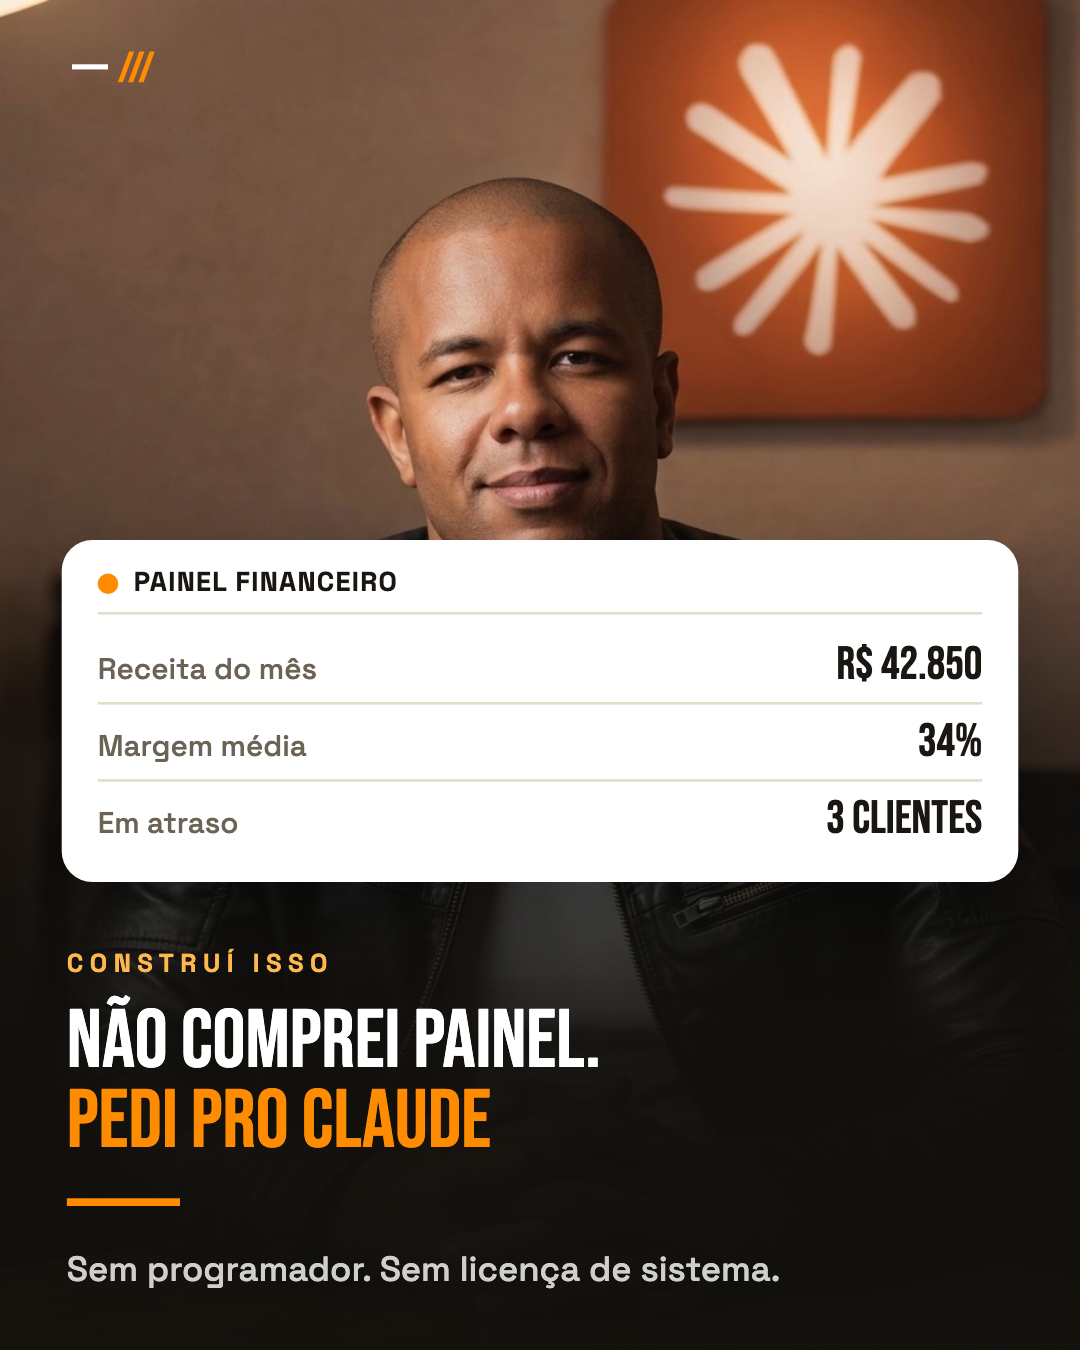
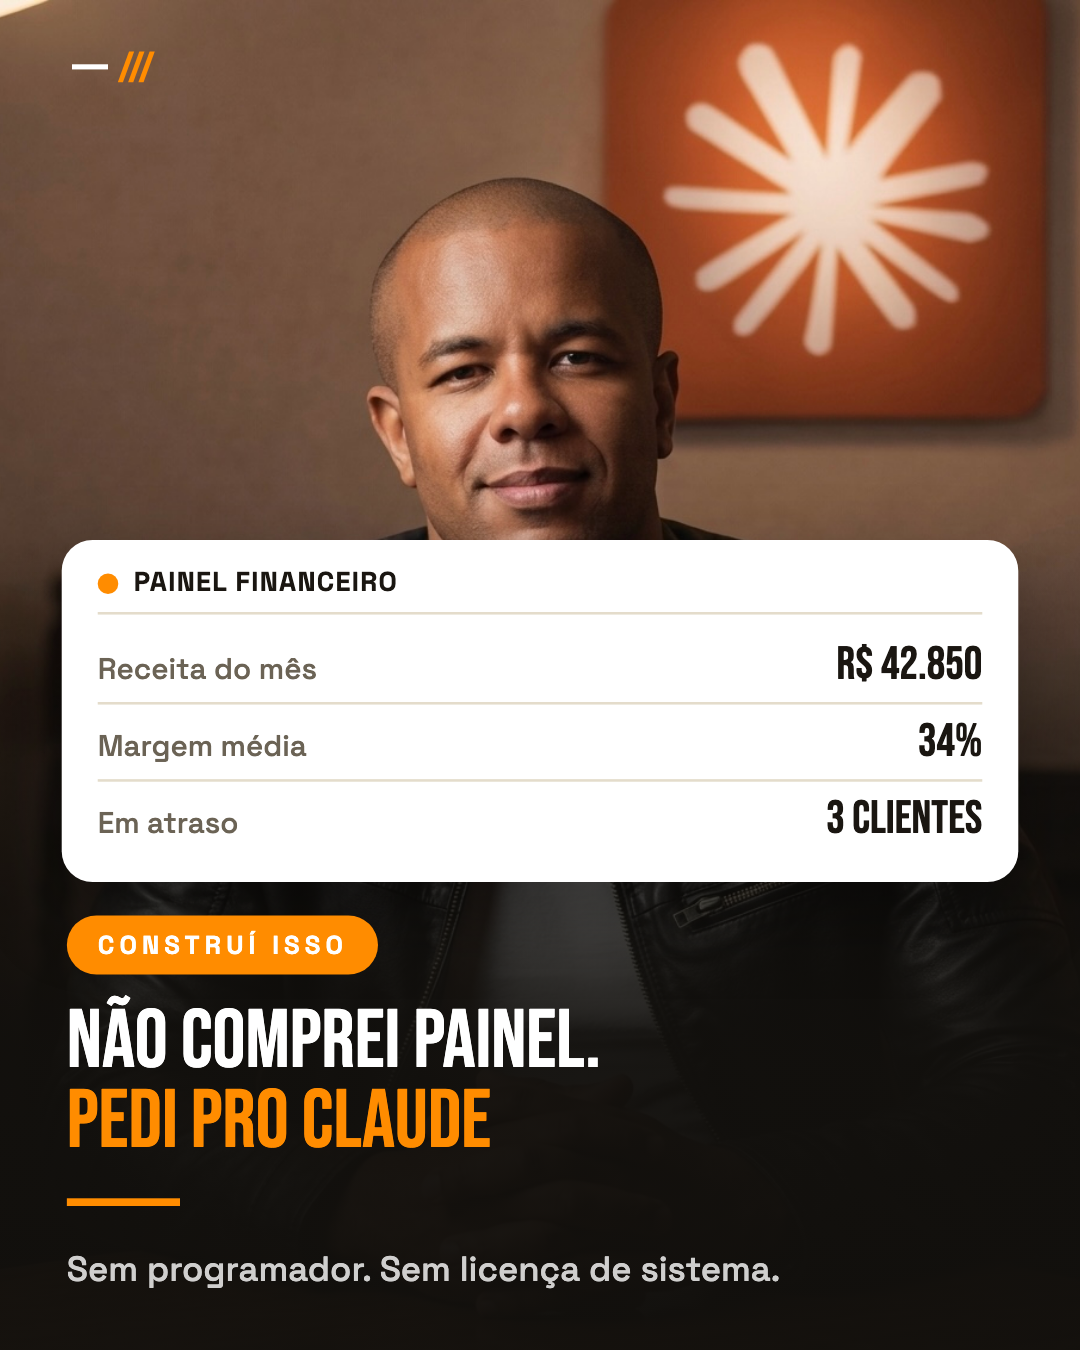
fix: tag do slide 1 vira pílula sólida (fidelidade à engenharia reversa)
A tag do slide 1 era só texto colorido (herdado do DNA antigo), enquanto
os posts virais analisados (@joelsonmadeira_) usam pílula sólida com fundo
preenchido — texto simples some contra fundos variados de foto. Nova
_tag_pill() aplicada só no slide 1 (capa); slides internos mantêm o
_tag() original.

Changed region(s): [[0.0611, 0.6533, 0.3667, 0.7467]]

diff --git a/preview/painel-financeiro-claude.html b/preview/painel-financeiro-claude.html
@@ -29,7 +29,7 @@
       <div style="display:flex;justify-content:space-between;align-items:baseline;padding:4px 0;border-bottom:1px solid #E4DCCB;"><span style="font-family:'Space Grotesk',sans-serif;font-size:11.5px;color:#6B6355;font-weight:500;">Receita do mês</span><span style="font-family:'Bebas Neue',Impact,sans-serif;font-size:18px;color:#1A1611;">R$ 42.850</span></div><div style="display:flex;justify-content:space-between;align-items:baseline;padding:4px 0;border-bottom:1px solid #E4DCCB;"><span style="font-family:'Space Grotesk',sans-serif;font-size:11.5px;color:#6B6355;font-weight:500;">Margem média</span><span style="font-family:'Bebas Neue',Impact,sans-serif;font-size:18px;color:#1A1611;">34%</span></div><div style="display:flex;justify-content:space-between;align-items:baseline;padding:4px 0;"><span style="font-family:'Space Grotesk',sans-serif;font-size:11.5px;color:#6B6355;font-weight:500;">Em atraso</span><span style="font-family:'Bebas Neue',Impact,sans-serif;font-size:18px;color:#1A1611;">3 clientes</span></div>
     </div></div>
       <div style="position:absolute;left:26px;right:26px;bottom:20px;z-index:5;">
-        <div style="font-family:'Space Grotesk',sans-serif;font-size:10px;font-weight:700;letter-spacing:2.5px;color:#FFB84D;text-transform:uppercase;margin-bottom:10px;">CONSTRUÍ ISSO</div>
+        <div style="display:inline-block;background:#FF8C00;color:#fff;font-family:'Space Grotesk',sans-serif;font-size:10px;font-weight:700;letter-spacing:2px;text-transform:uppercase;padding:5px 12px;border-radius:20px;margin-bottom:12px;">CONSTRUÍ ISSO</div>
         <div style="font-family:'Bebas Neue',Impact,sans-serif;font-size:32px;font-weight:400;line-height:0.96;"><div style="color:#fff;">NÃO COMPREI PAINEL.</div><div style="color:#FF8C00;">PEDI PRO CLAUDE</div></div>
         <div style="width:44px;height:3px;background:#FF8C00;margin:14px 0;"></div>
         <div style="font-family:'Space Grotesk',sans-serif;font-size:13.5px;line-height:1.6;color:rgba(255,255,255,0.8);font-weight:500;">Sem programador. Sem licença de sistema.</div>

diff --git a/scripts/build_carousel.py b/scripts/build_carousel.py
@@ -99,6 +99,16 @@ def _tag(t: str, light=False) -> str:
             f'letter-spacing:2.5px;color:{color};text-transform:uppercase;margin-bottom:10px;">{t}</div>')
 
 
+def _tag_pill(t: str) -> str:
+    """Tag em pílula sólida (fundo laranja preenchido, texto branco) — modelada no post
+    viral do @joelsonmadeira_ ('ANÁLISE DE GRINGO'). Usada sobre foto no slide 1, onde
+    texto colorido sozinho (sem fundo) some contra fundos variados da foto."""
+    return (f'<div style="display:inline-block;background:{BP};color:#fff;'
+            f'font-family:\'Space Grotesk\',sans-serif;font-size:10px;font-weight:700;'
+            f'letter-spacing:2px;text-transform:uppercase;padding:5px 12px;border-radius:20px;'
+            f'margin-bottom:12px;">{t}</div>')
+
+
 def _h1(lines, size=44, light=False) -> str:
     r = f'<div style="font-family:\'Bebas Neue\',Impact,sans-serif;font-size:{size}px;font-weight:400;line-height:0.96;">'
     for i, t in enumerate(lines):
@@ -234,7 +244,7 @@ def _slide1_fullbleed(headline_lines, subtitle, tag_text, photo_path: Path, proo
       {_slash_mark_light()}
       {proof_html}
       <div style="position:absolute;left:26px;right:26px;bottom:20px;z-index:5;">
-        {_tag(tag_text, light=True)}
+        {_tag_pill(tag_text)}
         {_h1(headline_lines[:2], size=32, light=True)}
         {_div()}
         {_body(subtitle, light=True)}
